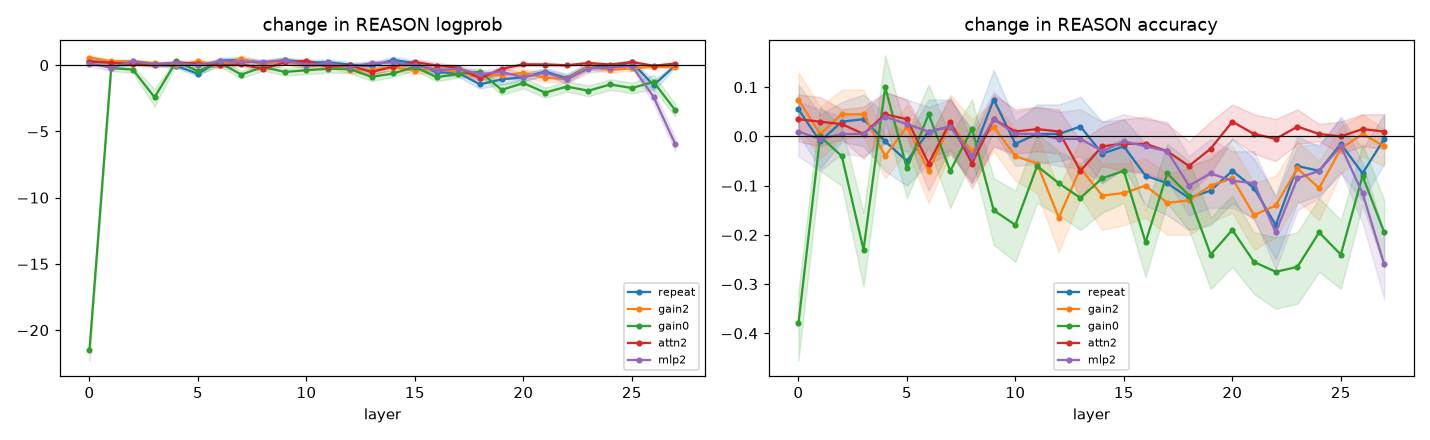
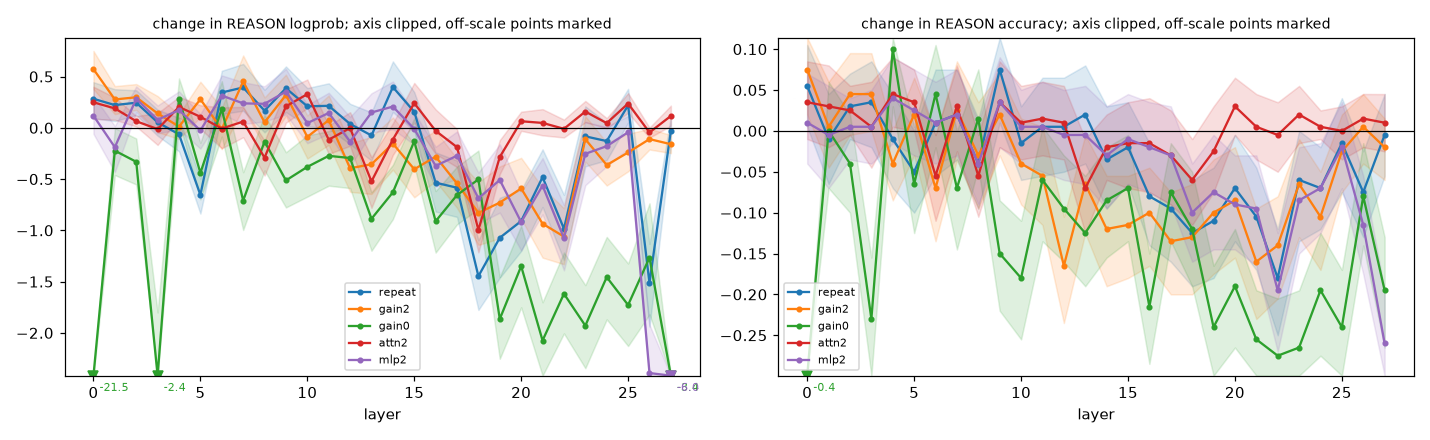
repeat task 1: clip plot axes (5th-95th percentile), mark off-scale points; numbers unchanged

diff --git a/repeat/task1.py b/repeat/task1.py
@@ -62,7 +62,12 @@ def main():
     p.add_argument("--model", choices=list(E.MODELS), default="dev")
     p.add_argument("--seed", type=int, default=0)
     p.add_argument("--layers", type=int, nargs="*", default=None)
+    p.add_argument("--replot", action="store_true", help="redraw plots from layers.csv only")
     args = p.parse_args()
+    if args.replot:
+        with open(os.path.join(out_dir(args.model), "layers.csv")) as f:
+            plots(list(csv.DictReader(f)), out_dir(args.model))
+        return
     torch.manual_seed(args.seed)
     out = out_dir(args.model)
     os.makedirs(os.path.join(out, "scores"), exist_ok=True)
@@ -103,7 +108,31 @@ def main():
     print(json.dumps(res, indent=1))
 
 
+def clip_limits(values, q=(5, 95), pad=0.25):
+    """y-limits covering the q-percentile range of the values and zero, padded; points outside
+    are drawn at the edge as triangles with their value written next to them."""
+    v = np.asarray(values, dtype=float)
+    lo, hi = np.percentile(v, q)
+    lo, hi = min(lo, 0.0), max(hi, 0.0)
+    span = (hi - lo) or 1.0
+    return lo - pad * span, hi + pad * span
+
+
+def draw_clipped(ax, x, y, lo, hi, ylim, color, label):
+    y, lo, hi = map(np.asarray, (y, lo, hi))
+    yc = np.clip(y, *ylim)
+    ax.plot(x, yc, "o-", ms=3, color=color, label=label)
+    ax.fill_between(x, np.clip(lo, *ylim), np.clip(hi, *ylim), color=color, alpha=0.15)
+    for xi, yi in zip(x, y):
+        if yi < ylim[0] or yi > ylim[1]:
+            edge = ylim[0] if yi < ylim[0] else ylim[1]
+            ax.plot([xi], [edge], "v" if yi < ylim[0] else "^", color=color, ms=7)
+            ax.annotate(f"{yi:.1f}", (xi, edge), textcoords="offset points",
+                        xytext=(4, 4 if yi > ylim[1] else -10), fontsize=7, color=color)
+
+
 def plots(rows, out):
+    rows = [r for r in rows if r["intervention"] != "base"]
     for s, k in [("TEXT", "loss"), ("REASON", "logprob"), ("RECALL", "logprob"),
                  ("RECALL-HARD", "logprob")]:
         fig, axs = plt.subplots(1, 2 if s != "TEXT" else 1, figsize=(13 if s != "TEXT" else 7, 4),
@@ -112,17 +141,18 @@ def plots(rows, out):
         if s != "TEXT":
             panels.append(("acc", f"change in {s} accuracy"))
         for ax, (key, title) in zip(axs[0], panels):
+            ylim = clip_limits([float(x[f"d_{s}_{key}"]) for x in rows])
             for i, (name, _) in enumerate(INTERVENTIONS):
                 r = [x for x in rows if x["intervention"] == name]
-                L = [x["layer"] for x in r]
-                y = np.array([x[f"d_{s}_{key}"] for x in r])
-                lo = np.array([x[f"d_{s}_{key}_lo"] for x in r])
-                hi = np.array([x[f"d_{s}_{key}_hi"] for x in r])
-                ax.plot(L, y, "o-", ms=3, color=f"C{i}", label=name)
-                ax.fill_between(L, lo, hi, color=f"C{i}", alpha=0.15)
+                L = [int(x["layer"]) for x in r]
+                draw_clipped(ax, L, [float(x[f"d_{s}_{key}"]) for x in r],
+                             [float(x[f"d_{s}_{key}_lo"]) for x in r],
+                             [float(x[f"d_{s}_{key}_hi"]) for x in r], ylim, f"C{i}", name)
+            ax.set_ylim(*ylim)
             ax.axhline(0, color="k", lw=0.8)
             ax.set_xlabel("layer")
-            ax.set_title(title + (" (lower is better)" if s == "TEXT" else ""))
+            ax.set_title(title + (" (lower is better)" if s == "TEXT" else "")
+                         + "; axis clipped, off-scale points marked", fontsize=9)
             ax.legend(fontsize=7)
         fig.tight_layout()
         fig.savefig(os.path.join(out, f"change_{s}.png"), dpi=110)
